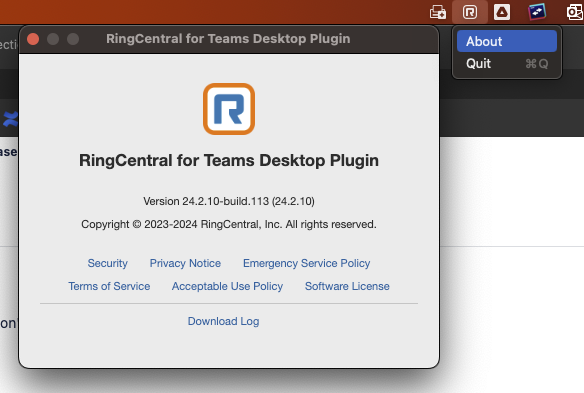
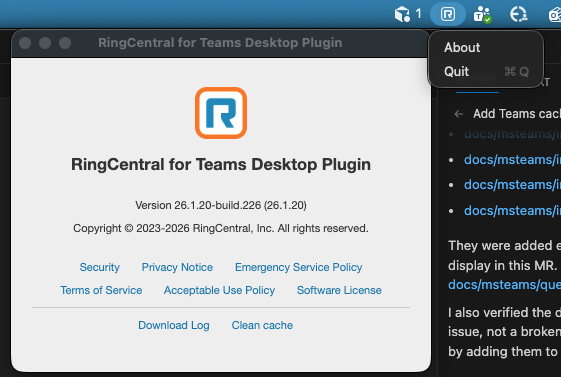
feat(MSTeams): [misc] Add Q&A on cache clean feature

diff --git a/docs/msteams/log-collection.md b/docs/msteams/log-collection.md
@@ -19,8 +19,8 @@ hide:
 - [EA HAR/Console Logs](#ea-harconsole-logs)
 - [Manually Download EA Logs](#manually-download-ea-logs)
 - [DP Hidden UI HAR/console logs](#dp-hidden-ui-harconsole-logs)
-- [DP (Windows - Exe type): Installation/Uninstallation Debug logs](#dp-windows---exe-type-installationuninstallation-debug-logs)
-- [DP - Clear cache](#dp---clear-cache)
+- [DP (Windows - Exe type): Installation/Uninstallation Debug logs](#dp-windows-exe-type-installationuninstallation-debug-logs)
+- [DP - Clear cache](#dp-clear-cache)
 - [Log Submission via EA](#log-submission-via-ea)
 
 ---
@@ -88,7 +88,7 @@ They serve different purposes, and some can be difficult to collect. We will go 
 
 1. Find the DP in system tray, right click on the icon and select **About**. Then click on **"Download Log"**:
 
-    ![DP System Tray](./img/DPSystemTray.png)
+    ![Desktop Plugin About Window](./img/DPSystemTray.png)
 
 ## EA HAR/Console Logs
 
@@ -224,23 +224,23 @@ Use this way if you (or the customer) face issues during the DP installing or un
 
 ## DP - Clear cache
 
-Use this way if you (or the customer) wants to clear the localStorage/indexDB cache in the hidden main window in DP.
+Use this when you (or the customer) need to clear the Desktop Plugin cache, especially if the Embedded App repeatedly shows the Open Plugin and Loading Plugin banners, or shows a Network unavailable error.
 
 **Steps:**
 
-1. Open the development menu (by clicking the app icon on the system tray quickly for more than 5 times)
+1. Find the Desktop Plugin in the system tray, right click the icon, select **About**, and then click the **Clean cache** link in the **About** window.
 
-2. Click the app icon, navigate to **"Support"** → **"Clean app cache..."**
+    ![Desktop Plugin About Window](./img/DPSystemTray.png)
 
-    ![DP Clear Cache](./img/DPClearCache.png)
-
-3. Click **"Confirm"** to perform the cleaning
+2. Click **Confirm** to clear the cache.
 
     ![Confirm Clear Cache](./img/ConfirmClearCache.png)
 
-4. It is completed if you see the success message
+3. It is completed when you see the success message. Click **OK** and then verify whether the Embedded App can connect successfully.
 
     ![Cache Clear Success](./img/CacheClearSuccess.png)
+
+**Note:** On lower-end devices, it may take a few minutes for the Desktop Plugin to fully load the internal app from the CDN again after the cache is cleared.
 
 ## Log Submission via EA
 

diff --git a/docs/msteams/questions.md b/docs/msteams/questions.md
@@ -63,6 +63,26 @@ A. To resolve contact search issues in the Embedded App, follow these steps:
 
 If contacts still don't appear after following these steps, escalate to the integration team for further investigation.
 
+## Q. What should I do if the Embedded App repeatedly shows the Open Plugin and Loading Plugin banners, or shows a Network unavailable error?
+
+A. This usually means the internal phone app inside the RingCentral for Teams Desktop Plugin did not load correctly, and cached data is a common cause. The Desktop Plugin now includes a built-in cache clear feature that can often resolve this issue.
+
+**Steps:**
+
+1. Find the RingCentral for Teams Desktop Plugin icon in the system tray, right click it, select **About**, and then click the **Clean cache** link in the **About** window.
+
+    ![Desktop Plugin About Window](./img/DPSystemTray.png)
+
+2. Click **Confirm** and wait for the cache clearing process to complete.
+
+    ![Confirm Clear Cache](./img/ConfirmClearCache.png)
+
+3. When the success message appears, click **OK**, then verify whether the Embedded App can connect to the Desktop Plugin successfully.
+
+    ![Cache Clear Success](./img/CacheClearSuccess.png)
+
+**Important note:** On lower-end devices, this may take a few minutes because the Desktop Plugin must fully load the internal app from the CDN again after the cache is cleared.
+
 ## Q. Why don't I see the dialer in the RingCentral Microsoft Teams embedded app, or why is the Phone tab missing?
 
 A. For users who are set up as DR (Direct Routing) users with Microsoft calling (Cloud PBX), the RingCentral for Microsoft Teams embedded app intentionally hides or limits some calling UI—including the Phone tab—because outbound/inbound calling is expected to run through Microsoft Teams (the native Calls tab and Teams dialer), not through the embedded RingCentral dialer.
